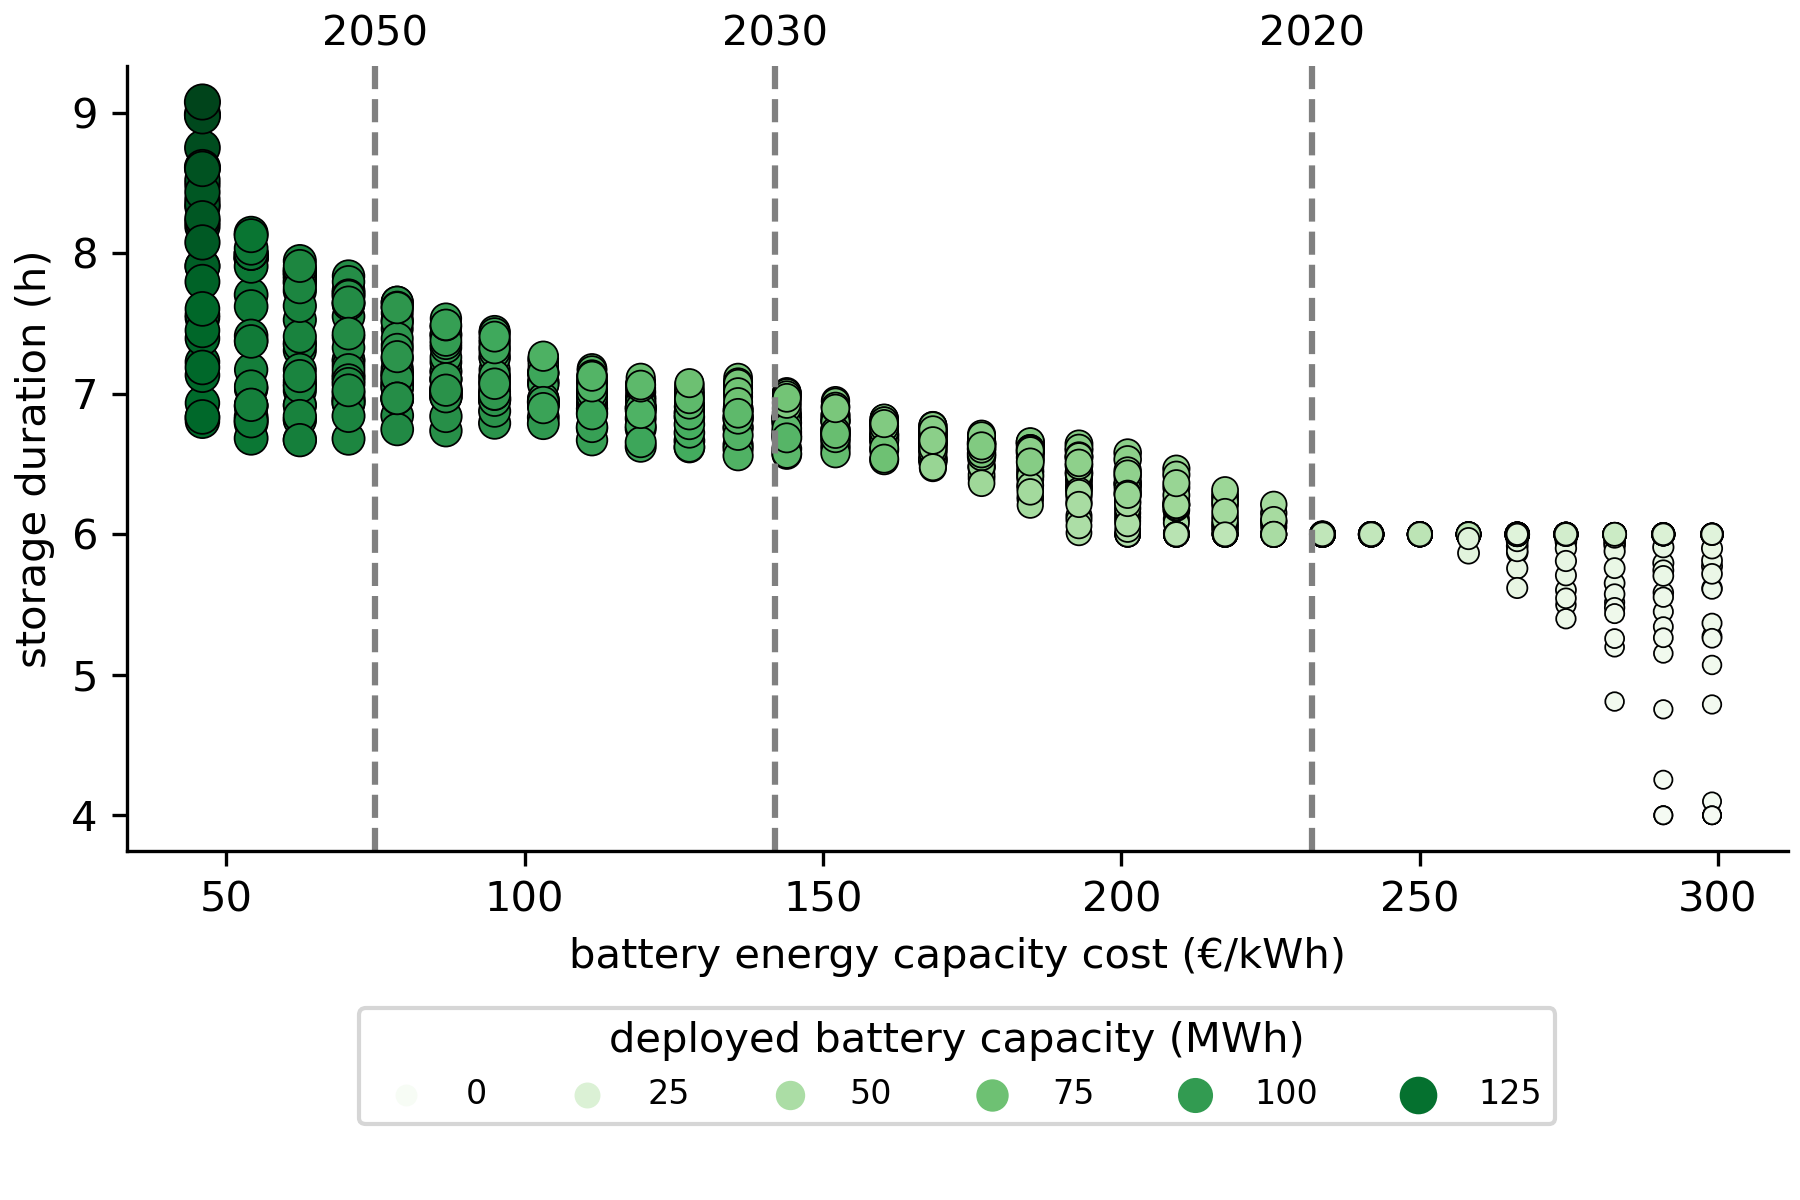
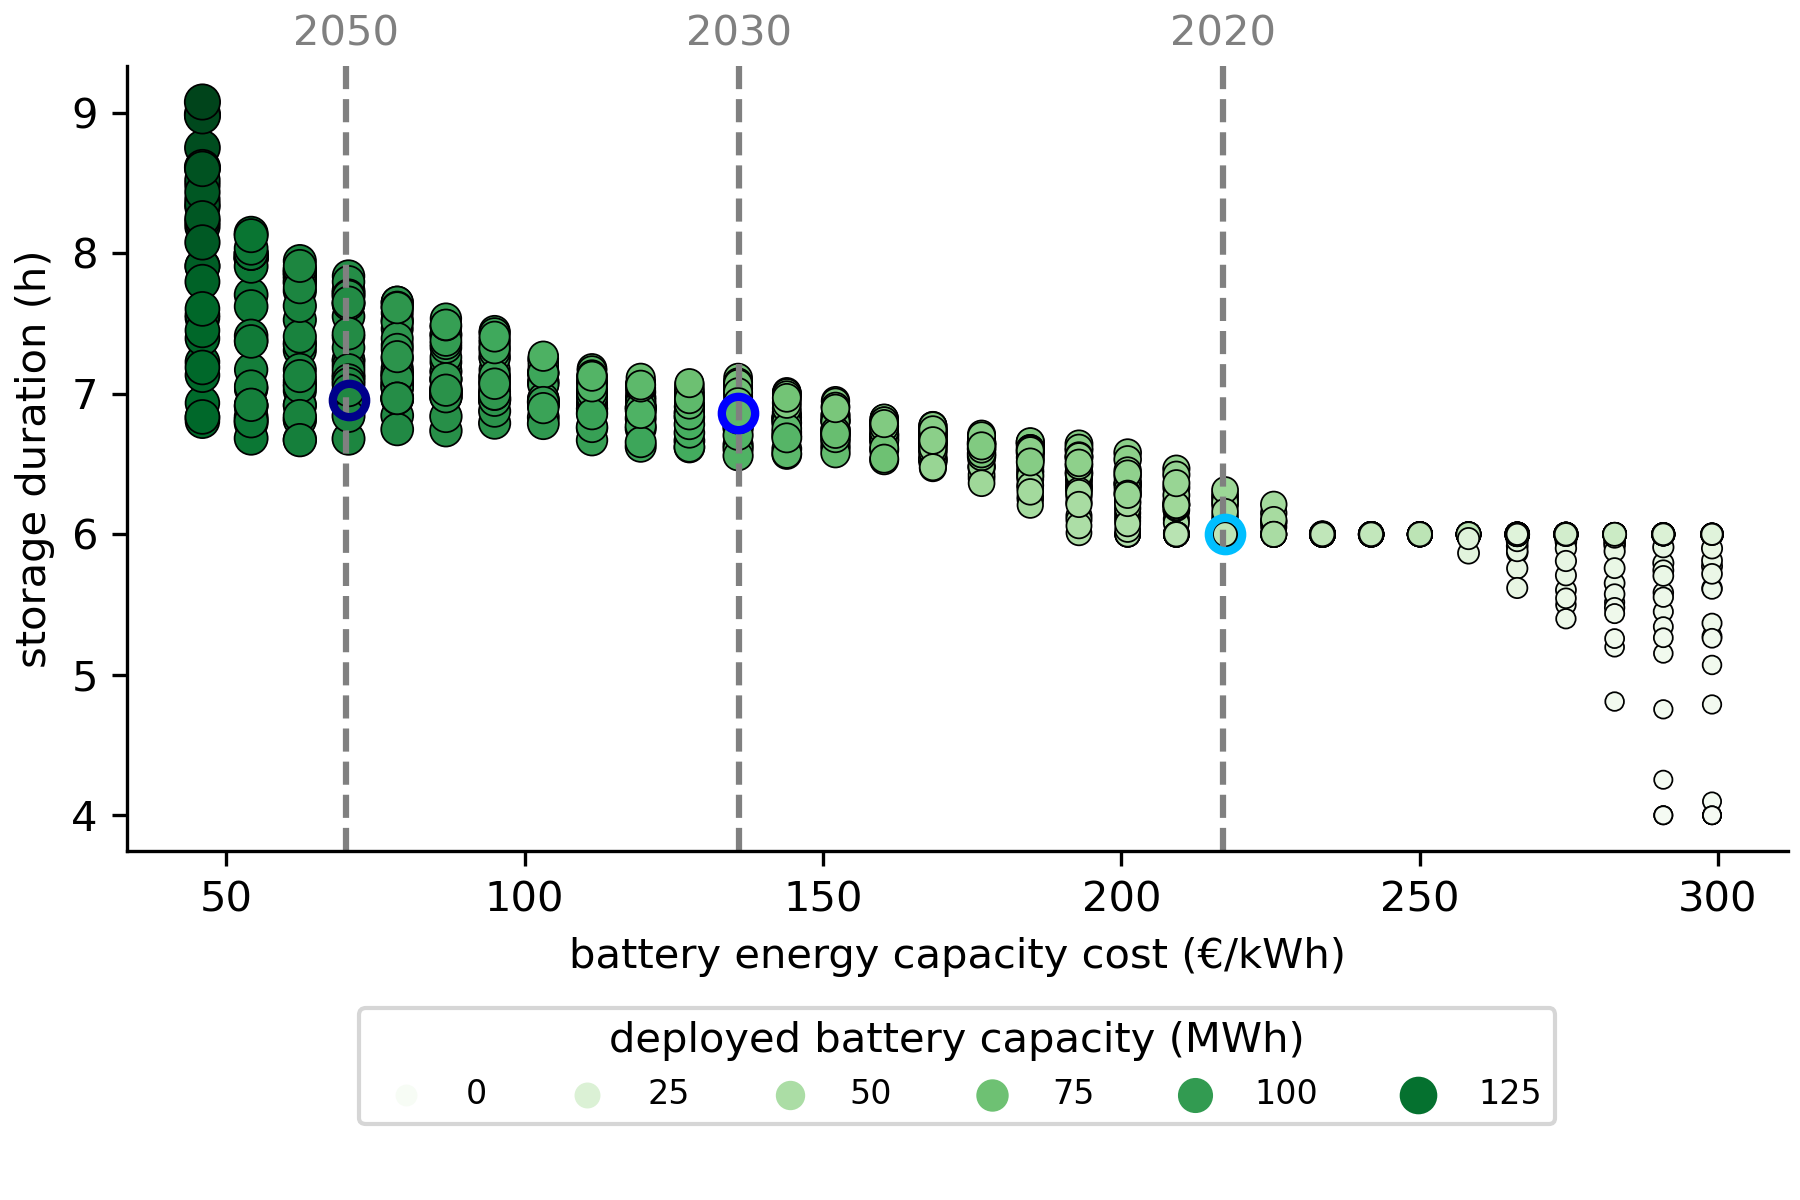
highlight colors for midvalues

diff --git a/experiments/cablepool/analysis/cablepool_postprocess_figures.py b/experiments/cablepool/analysis/cablepool_postprocess_figures.py
@@ -26,6 +26,22 @@ RESOURCE_FOLDER = FOLDER / "resources"
 PV_COST_RANGE = (170, 420)
 BATTERY_ENERGY_COST_RANGE = (46, 299)
 BATTERY_POWER_COST_RANGE = (40, 510)
+POINTS_HIGHLIGHT = {
+    2020: {
+        "color": "deepskyblue",
+        "exp": "cablepooling_paper_v2_exp_168548892478198.json",
+    },
+    2030: {
+        "color": "blue",
+        "exp": "cablepooling_paper_v2_exp_110088832558956.json",
+    },
+    2050: {
+        "color": "darkblue",
+        "exp": "cablepooling_paper_v2_exp_215620213215519.json",
+    },
+}
+HIGHLIGHT_MARKER_SIZE = 8
+HIGHLIGHT_MARKER_EW = 2
 
 
 # %% helper functions
@@ -58,12 +74,42 @@ twiny_energy_cost_for_6h_battery = partial(
     determine_cost_for_battery_config, storage_duration=6
 )
 
+
+def add_highlight_points(ax, x_col, y_col, z_col, annotation=False, y_divider=1):
+    dicto = POINTS_HIGHLIGHT
+    norm = ax.collections[0].norm
+    for year, dicto in dicto.items():
+        x = dicto["row"][x_col]
+        y = dicto["row"][y_col] / y_divider
+
+        ax.plot(
+            x,
+            y,
+            markeredgecolor=dicto["color"],
+            markerfacecolor="none",
+            markeredgewidth=HIGHLIGHT_MARKER_EW,
+            marker="o",
+            markersize=HIGHLIGHT_MARKER_SIZE,
+            zorder=10,
+        )
+        if annotation:
+            ax.annotate(
+                f"{year}",
+                xy=(x, y),
+                ha="center",
+                xytext=(0, 5),
+                textcoords="offset points",
+                color=dicto["color"],
+            )
+    return ax
+
+
 # %% open loop for all PV_ts
 
 from cablepool_postprocess_data import experiments, PV_COST_DICT, BAT_COST_DICT
 
 # experiments
-for experiment in ["both_ratios"]:
+for experiment in ["both_ratios", "high_ratio", "low_ratio"]:
     dataset_filename = f"{experiment}_additional.pkl"
     IMAGE_FOLDER = FOLDER / "images" / experiment
     IMAGE_FOLDER.mkdir(exist_ok=True, parents=True)
@@ -72,6 +118,12 @@ for experiment in ["both_ratios"]:
     df = pd.read_pickle(RESOURCE_FOLDER / dataset_filename)
     df["pv_cost"] = df["pv_cost"] * 1000
     df["battery_cost"] = df["battery_cost"] * 1000
+
+    if experiment == "both_ratios":
+        for year, dicto in POINTS_HIGHLIGHT.items():
+            POINTS_HIGHLIGHT[year].update(
+                {"row": df.query(f"filename_export == '{dicto['exp']}'")}
+            )
 
     ##  fig (3) [a] PV deployment vs PV cost with battery Z-index -----------------------------------------------------
 
@@ -87,6 +139,13 @@ for experiment in ["both_ratios"]:
         palette="Greens",
         ax=ax,
         edgecolor="black",
+    )
+
+    ax = add_highlight_points(
+        ax=ax,
+        x_col="pv_cost",
+        y_col=pv_dc_col,
+        z_col=total_bat_col,
     )
 
     ax.set_ylabel("deployed PV\ncapacity (MWp)")
@@ -137,6 +196,13 @@ for experiment in ["both_ratios"]:
         palette="YlOrBr",
         ax=ax,
         edgecolor="black",
+    )
+
+    ax = add_highlight_points(
+        ax=ax,
+        x_col="battery_cost",
+        y_col=total_bat_col,
+        z_col=pv_dc_col,
     )
 
     ax.set_ylabel("deployed battery capacity (MWh)")
@@ -193,6 +259,12 @@ for experiment in ["both_ratios"]:
         ax=ax,
         edgecolor="black",
     )
+    ax = add_highlight_points(
+        ax=ax,
+        x_col="pv_cost",
+        y_col="battery_cost",
+        z_col=pv_dc_col,
+    )
 
     ax.set_ylabel("battery energy\ncapacity cost (€/kWh)")
     ax.set_xlabel("PV capacity cost (€/kWp)")
@@ -226,6 +298,12 @@ for experiment in ["both_ratios"]:
         ax=ax,
         edgecolor="black",
     )
+    ax = add_highlight_points(
+        ax=ax,
+        x_col="pv_cost",
+        y_col="battery_cost",
+        z_col=total_bat_col,
+    )
 
     ax.set_ylabel("battery energy\ncapacity cost (€/kWh)")
     ax.set_xlabel("PV capacity cost (€/kWp)")
@@ -256,6 +334,12 @@ for experiment in ["both_ratios"]:
         palette="Greens",
         ax=ax,
         edgecolor="black",
+    )
+    ax = add_highlight_points(
+        ax=ax,
+        x_col=pv_dc_col,
+        y_col="relative_curtailment",
+        z_col=total_bat_col,
     )
 
     ax.set_xlabel("deployed PV capacity (MWp)")
@@ -296,6 +380,13 @@ for experiment in ["both_ratios"]:
         ax=ax,
         edgecolor="black",
     )
+    ax = add_highlight_points(
+        ax=ax,
+        x_col=pv_dc_col,
+        y_col="curtailment",
+        z_col=total_bat_col,
+        y_divider=1000,
+    )
 
     ax.set_xlabel("deployed PV capacity (MWp)")
     ax.set_ylabel("absolute\ncurtailment (GWh)")
@@ -331,7 +422,12 @@ for experiment in ["both_ratios"]:
         ax=ax,
         edgecolor="black",
     )
-
+    ax = add_highlight_points(
+        ax=ax,
+        x_col="battery_cost",
+        y_col="average_storage_duration",
+        z_col=total_bat_col,
+    )
     ax.set_ylabel("storage duration (h)")
     ax.set_xlabel("battery energy capacity cost (€/kWh)")
 
@@ -381,7 +477,12 @@ for experiment in ["both_ratios"]:
         ax=ax,
         edgecolor="black",
     )
-
+    ax = add_highlight_points(
+        ax=ax,
+        x_col=total_bat_col,
+        y_col="average_storage_duration",
+        z_col=pv_dc_col,
+    )
     ax.set_ylabel("storage duration (h)")
     ax.set_xlabel("deployed battery capacity (MWh)")
 
@@ -414,6 +515,12 @@ for experiment in ["both_ratios"]:
         df["effective_dc_ratio"] = (
             df[high_dc_pv_col] * 2 + df[low_dc_pv_col] * 1.4
         ) / (df[high_dc_pv_col] + df[low_dc_pv_col])
+
+        for year, dicto in POINTS_HIGHLIGHT.items():
+            POINTS_HIGHLIGHT[year].update(
+                {"row": df.query(f"filename_export == '{dicto['exp']}'")}
+            )
+
         sns.scatterplot(
             x="pv_cost",
             y="battery_cost",
@@ -425,6 +532,12 @@ for experiment in ["both_ratios"]:
             edgecolor="black",
             vmin=vmin,
             vmax=vmax,
+        )
+        ax = add_highlight_points(
+            ax=ax,
+            x_col="pv_cost",
+            y_col="battery_cost",
+            z_col="effective_dc_ratio",
         )
 
         ax.set_ylabel("battery energy\ncapacity cost (€/kWh)")

diff --git a/experiments/cablepool/analysis/cablepool_postprocess_data.py b/experiments/cablepool/analysis/cablepool_postprocess_data.py
@@ -1,4 +1,4 @@
-#%% evhub_postprocess_tools.py
+# %% evhub_postprocess_tools.py
 from pathlib import Path
 from dataclasses import dataclass
 from typing import Tuple
@@ -36,11 +36,12 @@ pv_dict = {
 
 
 @dataclass
-class Costblock():
+class Costblock:
     pv: Tuple[int, int]
     bat: Tuple[int, int]
     year: int
-    
+
+
 costblocks = [
     Costblock(pv=(380, 420), bat=(160, 299), year=2020),
     Costblock(pv=(170, 280), bat=(46, 255), year=2050),
@@ -61,19 +62,23 @@ bivar_tech_dict = {
 
 experiments = ["high_ratio", "low_ratio", "both_ratios"]
 
-#%% Cost definitions
+# %% Cost definitions
 
 low_ratio = {
-    2020: 398,
-    2030: 266,
-    2050: 199,
+    2020: 396,
+    2030: 267,
+    2050: 202,
 }
-high_ratio = {2020: 392, 2030: 262, 2050: 196}
+high_ratio = {
+    2020: 396,
+    2030: 267,
+    2050: 202,
+}
 
 both_ratios = {
-    2020: 395,
-    2030: 264,
-    2050: 197,
+    2020: 396,
+    2030: 267,
+    2050: 202,
 }
 
 PV_COST_DICT = {
@@ -83,21 +88,19 @@ PV_COST_DICT = {
 }
 
 BAT_COST_DICT = {
-    2020: 232,
-    2030: 142,
-    2050: 75,
+    2020: 217,
+    2030: 136,
+    2050: 70,
 }
 
 
-#%% load in results
+# %% load in results
 def get_data_from_db(experiment, force_refresh=False):
-
     filename = f"{experiment}.pkl"
     pickled_db = RESOURCE_FOLDER / filename
 
     # buffer all the calculations/db, only refresh if forced to refresh
     if pickled_db.exists() and not force_refresh:
-
         print("opened pickle -- not refreshed")
         db = pd.read_pickle(pickled_db)
 
@@ -110,11 +113,9 @@ def get_data_from_db(experiment, force_refresh=False):
 
 
 def update_pv_dict_with_specific_yield(pv_dict):
-
     mapping = {pv_col1: "high_ratio", pv_col2: "low_ratio"}
 
     for pv_col in pv_dict.keys():
-
         db = get_data_from_db(mapping[pv_col])
 
         experiment_name = db[db[pv_col] > 1].filename_export.iat[0]
@@ -142,7 +143,6 @@ def update_pv_dict_with_specific_yield(pv_dict):
 
 
 def add_additional_data(experiment: str, force_refresh: bool = False):
-
     db = get_data_from_db(experiment=experiment, force_refresh=force_refresh)
 
     mapping = {
@@ -197,7 +197,7 @@ def add_additional_data(experiment: str, force_refresh: bool = False):
     db.to_pickle(RESOURCE_FOLDER / f"{experiment}_additional.pkl")
 
 
-#%%
+# %%
 if __name__ == "__main__":
     update_pv_dict_with_specific_yield(pv_dict=pv_dict)
 

diff --git a/230418 aantekeningen met Emiel.md b/230418 aantekeningen met Emiel.md
@@ -10,15 +10,15 @@
 
 - [x] cost vs. cost - grafieken range 2050 en 2020 (blokken)
 - [ ] Nieuwe figuur maken met DC ratio als kleur op de z-as (laag)
-- [ ] cost vs. cost - Punten van 20 - 30 - 50
-  - [ ] 2020 mid waarde is ID cablepooling_paper_v2_exp_168548892478198.json (both)
-  - [ ] 2030 mid waarde is ID cablepooling_paper_v2_exp_110088832558956.json (both)
-  - [ ] 2050 mid waarde is ID cablepooling_paper_v2_exp_215620213215519.json (both)
+- [x] cost vs. cost - Punten van 20 - 30 - 50
+  - [x] 2020 mid waarde is ID cablepooling_paper_v2_exp_168548892478198.json (both)
+  - [x] 2030 mid waarde is ID cablepooling_paper_v2_exp_110088832558956.json (both)
+  - [x] 2050 mid waarde is ID cablepooling_paper_v2_exp_215620213215519.json (both)
   - [ ] Alleen bij pvcost vs batcost vs pv cap met label
-  - [ ] Per jaar jaar een kleur
+  - [x] Per jaar jaar een kleur
 - [x] 2h battery twinx veranderen naar 6-hour afgerond naar int (label = "6-hour battery cost")
 - [x] abs_curtailment grafiek -> label veranderen naar 'absolute curtailment'
 - [x] Bij curtailment plaatjes -> deployed capacity
-- [ ] Grafieken met twinx ==> vline label onder de lijn naar rechts
+- [x] Grafieken met twinx ==> vline label onder de lijn naar rechts
 - [ ] Nieuwe grafiek maken met x = invest, y = net_profit, z = roi
 - [ ] Dwingen naar meer punten (6) en op min en max; Colorbar in plaats van legend https://stackoverflow.com/questions/49761221/make-seaborn-show-a-colorbar-instead-of-a-legend-when-using-hue-in-a-bar-plot
